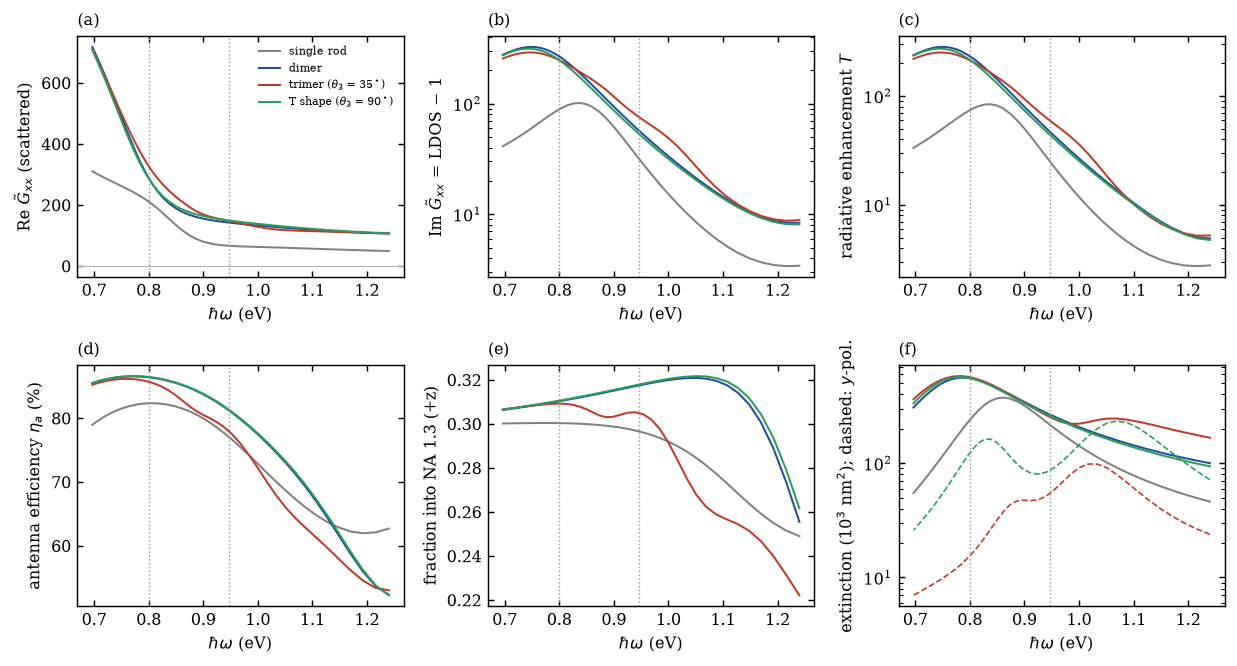
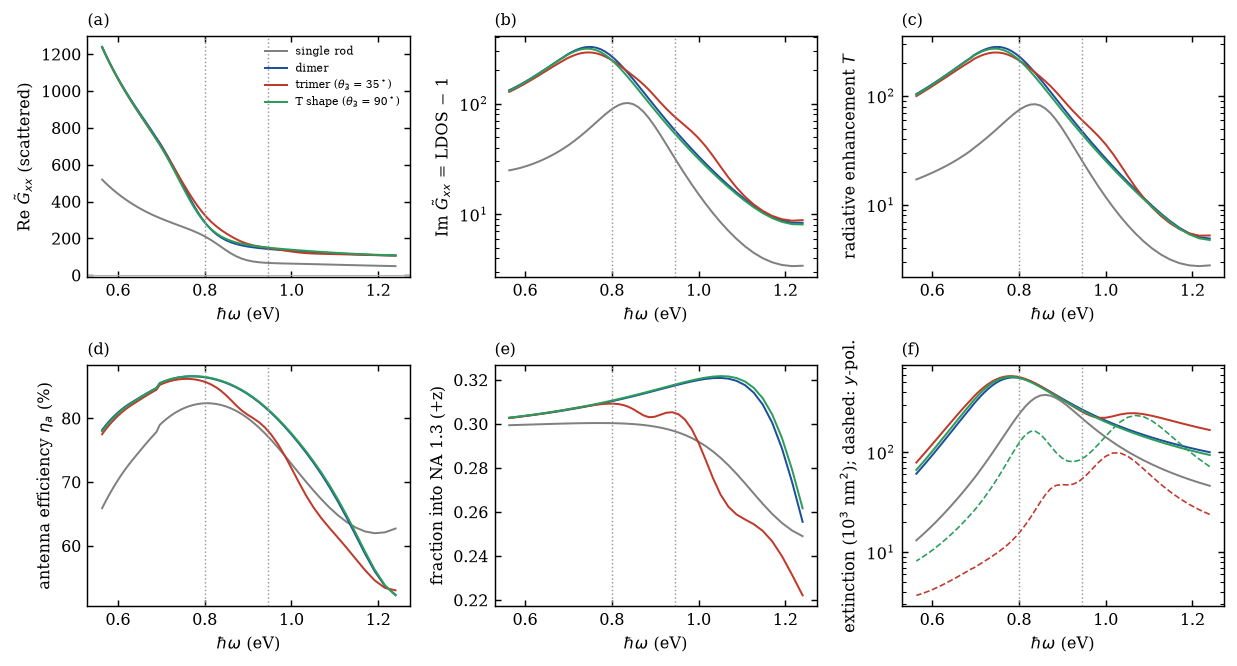
Trimer pilot: full 1000-2200 nm range
Claude-Session: https://claude.ai/code/session_01RpLXD5KBSRmonucEmHsk6s

diff --git a/isi/results/trimer.md b/isi/results/trimer.md
@@ -5,10 +5,10 @@ dipole along x unless stated. Rates in units of the rate in the host. Lamb shift
 
 | geometry | chunks | lambda_T | T max | Fp at lambda_T | eta | T(1550) | Fp(1550) | eta(1550) | -ReG/2 (1550) | f NA1.3 (1550) | f +y / -y (1550) | max abs(Fp-1-ImG) |
 |---|---|---|---|---|---|---|---|---|---|---|---|---|
-| single | 5/8 | 1480 | 84 | 102 | 82% | 74 | 90 | 82% | -105 | 0.30 | 0.30 / 0.30 | 2e-05% |
-| dimer | 5/8 | 1660 | 283 | 327 | 86% | 232 | 268 | 86% | -144 | 0.31 | 0.31 / 0.31 | 4.8e-05% |
-| trimer | 5/8 | 1660 | 251 | 292 | 86% | 213 | 248 | 86% | -164 | 0.31 | 0.38 / 0.24 | 4e-05% |
-| tri90 | 5/8 | 1660 | 272 | 315 | 86% | 215 | 249 | 86% | -144 | 0.31 | 0.32 / 0.30 | 9.8e-06% |
+| single | 8/8 | 1480 | 84 | 102 | 82% | 74 | 90 | 82% | -105 | 0.30 | 0.30 / 0.30 | 2e-05% |
+| dimer | 8/8 | 1660 | 283 | 327 | 86% | 232 | 268 | 86% | -144 | 0.31 | 0.31 / 0.31 | 4.8e-05% |
+| trimer | 8/8 | 1660 | 251 | 292 | 86% | 213 | 248 | 86% | -164 | 0.31 | 0.38 / 0.24 | 4e-05% |
+| tri90 | 8/8 | 1660 | 272 | 315 | 86% | 215 | 249 | 86% | -144 | 0.31 | 0.32 / 0.30 | 9.8e-06% |
 
 ## Position and orientation at 1550 nm (T / Fp)
 
